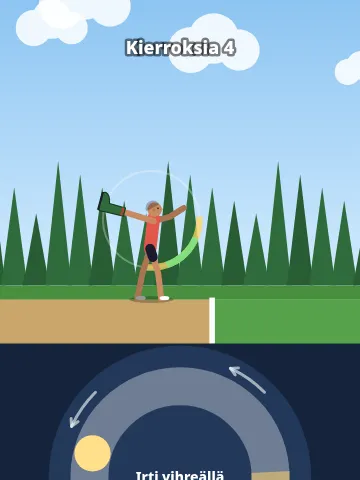
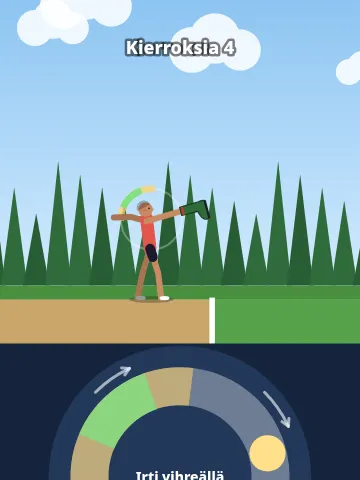
Saappaanheitto v1: swing over the top by default, helper fixes (#503)
- The swing goes clockwise over the top by default, so letting go too early
  sends the boot up and back and too late into the ground, as chosen on #503.
- Flight starts at the hand (arm 0.55 m) and keeps the boot's turn, so the
  boot no longer jumps at release.
- Spectators slide at the forest's rate.
- A lift under half a lap tells the phones watching.
- Tests and diagram follow the new direction.

diff --git a/games/saappaanheitto/v1/index.html b/games/saappaanheitto/v1/index.html
@@ -63,10 +63,10 @@
   <button id="multi">👥 Pelaa kavereiden kanssa</button>
   <button id="asu">👕 Asu</button>
   <p id="stats"></p>
-  <p class="help">Pyöritä saapasta piirtämällä peukalolla ympyröitä kehälle: mitä nopeammin ja mitä useampi
+  <p class="help">Pyöritä saapasta yli olan piirtämällä peukalolla ympyröitä kehälle myötäpäivään: mitä nopeammin ja mitä useampi
     kierros, sitä kovempi vauhti. Nosta peukalo, kun saapas on vihreällä kaarella, niin se lentää parhaaseen
     kulmaan. Yli kymmenen kierrosta väsyttää käden. Kolme heittoa, kahdeksan parasta saa kolme lisää.</p>
-  <p class="help side">Piirrä peukalolla ympyröitä oikean reunan kehälle ja nosta peukalo, kun saapas on
+  <p class="help side">Piirrä peukalolla ympyröitä myötäpäivään oikean reunan kehälle ja nosta peukalo, kun saapas on
     vihreällä kaarella. Kolme heittoa, kahdeksan parasta saa kolme lisää.</p>
 </div>
 <script src="../../../rooms.js" data-game="saappaanheitto" data-min="2" data-max="8"></script>
@@ -91,10 +91,13 @@ const FOES = ['Kumi-Kalle', 'Saapas-Sanna', 'Varsi-Ville', 'Lätäkkö-Leena', '
 // The boot's speed comes from how fast the thumb goes round (the last WIN_S seconds of turning),
 // times how far the swing has built up (and the boot follows it with some weight): half on the first lap, full after BUILD laps. Past TIRE
 // laps the arm tires and the speed drops; at SLIP laps the boot slips from the hand (a foul).
-// Lifting the thumb lets go: the boot flies along the circle's tangent. Going round forward
-// (anticlockwise on the screen) that is best low in front, going round backward high behind.
+// Lifting the thumb lets go: the boot flies along the circle's tangent. The swing is over the top
+// (clockwise on the screen, dir -1), as Eero chose on #503: let go early, while the boot still
+// rises behind, and it flies up and back; late, as it comes down in front, and it goes into the
+// ground. The best moment is high behind the shoulder. Going round the other way (underarm, dir 1)
+// works too, mirrored.
 const TAU = Math.PI * 2, DEG = Math.PI / 180;
-const SH_X = -1.1, SH_Y = 1.45, ARM = 0.87;   // the shoulder, and the boot's middle from it
+const SH_X = -1.1, SH_Y = 1.45, ARM = 0.55;   // the shoulder, and the hand holding the boot from it
 const KW = 2.0, VMAX = 28, WIN_S = 0.25;      // m/s of boot per rad/s of thumb, its top speed
 const BUILD = 2.5, TIRE = 10, SLIP = 14;      // laps
 const MIN_TURN = Math.PI;                     // less than half a lap before the lift: no throw
@@ -103,7 +106,7 @@ const DRAG = 0.006, G = 9.81, SUB = 1 / 240;
 const LAND_T = 2.4, BOARD_T = 3.5, TURN_MAX = 45;   // seconds
 
 const wrapR = r => ((r + Math.PI) % TAU + TAU) % TAU - Math.PI;
-// The boot's middle when its arm points at angle a (radians, 0 forward, anticlockwise up).
+// The hand (and the boot's top) when its arm points at angle a (radians, 0 forward, anticlockwise up).
 const bootAt = a => [SH_X + Math.cos(a) * ARM, SH_Y + Math.sin(a) * ARM];
 // How much of the thumb's speed reaches the boot after this many laps.
 function build(laps) {
@@ -121,7 +124,7 @@ function launchDeg(a, dir) {
 function arc(dir, half) { const m = (BEST - dir * 90) * DEG; return [m - half * DEG, m + half * DEG]; }
 function boot(a, v, dir) {
   const [x0, y0] = bootAt(a), e = launchDeg(a, dir) * DEG;
-  return { x: x0, y: y0, vx: v * Math.cos(e), vy: v * Math.sin(e), t: 0, acc: 0, stuck: false, dir, trail: [] };
+  return { x: x0, y: y0, vx: v * Math.cos(e), vy: v * Math.sin(e), t: 0, acc: 0, stuck: false, dir, a0: a, trail: [] };
 }
 function flySub(j) {
   const v = Math.hypot(j.vx, j.vy);
@@ -218,7 +221,7 @@ function cpuMark(t) {
 }
 // A new turn: this phone draws it, and runs it when it is its own.
 function newTurn(t, mine, seq) {
-  th = { seq, id: t.id, mine, phase: 'wait', t: 0, a: -Math.PI / 2 - 0.15, dir: 1, turn: 0, v: 0,
+  th = { seq, id: t.id, mine, phase: 'wait', t: 0, a: -Math.PI / 2 - 0.15, dir: -1, turn: 0, v: 0,
     moves: [], boot: null, mark: null, why: '', sendT: 0, idle: 0, lap: 0 };
   blend = 0; spinPtr = null;
 }
@@ -323,8 +326,10 @@ function spinEnd(e) {
   spinMove(e.clientX, e.clientY, clock);
   if (Math.abs(th.turn) < MIN_TURN) {
     // A thumb lifted before half a lap: a slip, the boot hangs again.
-    th.phase = 'ready'; th.a = -Math.PI / 2 - 0.15; th.v = 0; th.turn = 0;
+    th.phase = 'ready'; th.a = -Math.PI / 2 - 0.15; th.v = 0; th.turn = 0; th.dir = -1;
     say('Pyöritä ympyrää!', '#ffd166');
+    // The phones watching put the boot back to hanging too.
+    if (isNet()) K.send({ t: 'p', a: [r3(th.a), 0, 'ready', th.dir, 0] });
     return;
   }
   letGo();
@@ -445,7 +450,7 @@ function drawScene(dt) {
     x.beginPath(); x.moveTo(tx, groundY - 14); x.lineTo(tx + gap * 0.6, groundY - 14 - th2); x.lineTo(tx + gap * 1.2, groundY - 14); x.fill();
   }
   // The friends watching stand in front of the forest, drawn before the thrower so they never cover it.
-  K.drawFans(x, { left: 12, right: SW - 12, bottom: groundY - 8, h: 40, walk: true, scroll: (camX - REST()) * 9 });
+  K.drawFans(x, { left: 12, right: SW - 12, bottom: groundY - 8, h: 40, walk: true, scroll: (camX - REST()) * 6 });
   x.fillStyle = '#4a8f3f'; x.fillRect(0, groundY - 14, W, 14);
   // The field: mown stripes every 5 m past the line, a sandy throwing area behind it.
   x.fillStyle = '#5aa64e'; x.fillRect(0, groundY, W, sceneB - groundY);
@@ -485,7 +490,8 @@ function drawScene(dt) {
       });
       const j = th.boot;
       // It tumbles end over end in the air, and lies on its side where it came down.
-      const rot = j.stuck ? -Math.PI / 2 : -Math.PI / 2 - j.dir * j.t * 9;
+      // It leaves the hand turned as it was held, and goes on turning the way it was swung.
+      const rot = j.stuck ? -Math.PI / 2 : -(j.a0 + j.dir * j.t * 9);
       // Drawn bigger than it is once the camera is out, so it can be followed in the air.
       const bk = Math.max(s, 46);
       drawBoot(sx(j.x) - (j.stuck ? 0.24 * bk : 0), sy(j.y) - (j.stuck ? 0.12 * bk : 0), rot, bk);
@@ -591,7 +597,7 @@ function drawAthlete(a, px, base, s, col, name, o = null, g = x) {
   g.strokeStyle = o.bottom; g.lineWidth = lw * 1.6;
   g.beginPath(); g.moveTo(hipX, hipY); g.lineTo(...pt(hipX, hipY, legs[0][0], 0.16 * s)); g.stroke();
   // The throwing arm, straight from the shoulder to the boot's shaft.
-  const shX = px, shY = base - SH_Y * s, hand = [shX + Math.cos(arm) * 0.5 * s, shY - Math.sin(arm) * 0.5 * s];
+  const shX = px, shY = base - SH_Y * s, hand = [shX + Math.cos(arm) * ARM * s, shY - Math.sin(arm) * ARM * s];
   g.strokeStyle = o.skin; g.lineWidth = lw;
   g.beginPath(); g.moveTo(neckX, neckY + 0.05 * s); g.lineTo(hand[0], hand[1]); g.stroke();
   if (!a.boot && !a.bare && !(a.phase === 'land' && a.dropped)) drawBoot(hand[0], hand[1], -arm, s, g);
@@ -709,7 +715,7 @@ function drawControls() {
     x.lineWidth = r * 0.42;
     x.strokeStyle = 'rgba(255,209,102,.55)'; x.beginPath(); x.arc(cx, cy, r, -ok[1], -ok[0]); x.stroke();
     x.strokeStyle = 'rgba(126,224,129,.8)'; x.beginPath(); x.arc(cx, cy, r, -good[1], -good[0]); x.stroke();
-    // Arrows round the ring, the way the boot goes (forward before the first lap).
+    // Arrows round the ring, the way the boot goes (over the top, clockwise, before the first lap).
     x.strokeStyle = 'rgba(255,255,255,.6)'; x.lineWidth = 3; x.lineCap = 'round';
     for (let k = 0; k < 4; k++) {
       const m = k * Math.PI / 2 + Math.PI / 4, q = m + dir * 0.35;

diff --git a/tests/test_saappaanheitto_v1.py b/tests/test_saappaanheitto_v1.py
@@ -42,13 +42,15 @@ def my_turn(page):
 def test_the_flight_rewards_speed_and_the_right_moment(real, context):
     page, errors = open_game(real, context)
     r = page.evaluate("""() => {
-      const best = (BEST - 90) * DEG;               // going round forward, let go low in front
+      // Over the top (clockwise, dir -1, Eero's choice on #503): the angle falls as the boot goes
+      // round, so an early release is at a larger angle and a late one at a smaller.
+      const best = (BEST + 90) * DEG;               // high behind the shoulder
       return {
-        top: flight(best, VMAX, 1),
-        slow: flight(best, 12, 1),
-        early: flight(best + 100 * DEG, VMAX, 1),   // still on the way up: flies up and back
-        late: flight(best - 110 * DEG, VMAX, 1),    // past the bottom: low, into the ground
-        back: flight((BEST + 90) * DEG, VMAX, -1),  // going round backward, let go high behind
+        top: flight(best, VMAX, -1),
+        slow: flight(best, 12, -1),
+        early: flight(best + 100 * DEG, VMAX, -1),  // still rising behind: flies up and back
+        late: flight(best - 110 * DEG, VMAX, -1),   // coming down in front: low, into the ground
+        under: flight((BEST - 90) * DEG, VMAX, 1),  // the underarm swing, mirrored
       };
     }""")
     assert 55 < r["top"]["mark"] < 62, r["top"]
@@ -56,10 +58,10 @@ def test_the_flight_rewards_speed_and_the_right_moment(real, context):
     assert 0 < r["slow"]["mark"] < 20, r["slow"]
     assert r["early"]["mark"] == -1 and r["early"]["why"]
     assert r["late"]["mark"] < 0.3 * r["top"]["mark"], r["late"]
-    # The overarm swing reaches as far, from the same best angle.
-    assert abs(r["back"]["mark"] - r["top"]["mark"]) < 1.5
+    # The underarm swing reaches about as far, from the same best angle.
+    assert abs(r["under"]["mark"] - r["top"]["mark"]) < 2
     # The arm halves an error: 30 degrees off the tangent costs a little, not the throw.
-    off = page.evaluate("flight((BEST - 90 - 30) * DEG, VMAX, 1)")
+    off = page.evaluate("flight((BEST + 90 + 30) * DEG, VMAX, -1)")
     assert 0.8 * r["top"]["mark"] < off["mark"] < r["top"]["mark"]
     assert errors == []
 
@@ -76,20 +78,20 @@ def test_the_computer_never_throws_past_58_m(real, context):
 
 
 def circles(page, laps, lap_ms, stop_deg=None):
-    """Draws circles anticlockwise on the spin pad with the mouse, from the bottom, and lifts at stop_deg."""
+    """Draws circles clockwise (over the top) on the spin pad with the mouse, from the bottom, and lifts at stop_deg."""
     cx, cy, r = page.evaluate("[ring.cx, ring.cy, ring.r]")
     per = 24
     a = -math.pi / 2
     page.mouse.move(cx + r * math.cos(a), cy - r * math.sin(a))
     page.mouse.down()
     for _ in range(int(laps * per)):
-        a += 2 * math.pi / per
+        a -= 2 * math.pi / per
         page.mouse.move(cx + r * math.cos(a), cy - r * math.sin(a))
         page.wait_for_timeout(lap_ms / per)
     if stop_deg is not None:
         target = stop_deg * math.pi / 180
         while abs(((target - a + math.pi) % (2 * math.pi)) - math.pi) > 0.15:
-            a += 2 * math.pi / per
+            a -= 2 * math.pi / per
             page.mouse.move(cx + r * math.cos(a), cy - r * math.sin(a))
             page.wait_for_timeout(lap_ms / per)
     page.mouse.up()
@@ -98,10 +100,10 @@ def circles(page, laps, lap_ms, stop_deg=None):
 def test_a_thumb_drawing_circles_throws_the_boot(real, context):
     page, errors = open_game(real, context)
     my_turn(page)
-    circles(page, 4, 300, stop_deg=-47)
+    circles(page, 4, 300, stop_deg=133)
     page.wait_for_function("th.phase === 'land'", timeout=10000)
     th = page.evaluate("({ mark: th.mark, ang: th.ang, v: th.v, dir: th.dir })")
-    assert th["dir"] == 1
+    assert th["dir"] == -1
     assert th["v"] > 5
     assert abs(th["ang"] - 43) < 8, th
     assert th["mark"] > 5, th
@@ -153,7 +155,7 @@ def test_on_its_side_the_pad_is_under_the_right_thumb(real, context):
     assert cx > 740 * 0.66
     assert cx + 1.45 * r <= 740 and cx - 1.45 * r >= page.evaluate("W - side")
     assert cy - 1.45 * r >= 0 and cy + 1.45 * r <= 360
-    circles(page, 3, 300, stop_deg=-47)
+    circles(page, 3, 300, stop_deg=133)
     page.wait_for_function("th.phase === 'land'", timeout=10000)
     assert page.evaluate("th.mark") > 0
     # Turning back upright keeps the meet going.

diff --git a/docs/diagrams/saappaanheitto.md b/docs/diagrams/saappaanheitto.md
@@ -63,13 +63,13 @@ flowchart TD
 - **Tulostaulu: kierros, sijat, viimeisin ja paras**: the library's `K.drawBoard()`, shown for 3.5 s (`BOARD_T`) before each of the player's turns; alone a tap skips it.
 - **Kenen vuoro?**: the library's turn order; `newTurn()` makes the turn each phone draws (`th`), its own (`mine`) or someone else's.
 - **Tietokone heittää heti, enintään 58 m**: `cpuMark()`: the skill plus a scatter of 3 m, a foul one time in eight (0.12), at least 8 m; a throw over `CPU_MAX` (58 m, about what a player reaches at the top speed and the best angle) is drawn again, as in Moukarinheitto (#404).
-- **Odotetaan omalla vuorolla, Ohita vuoro = X, tai hän palaa**: the library calls `R.turns()` with the competitor on turn; the host's "Ohita vuoro" records -1 (X). The friends not on turn stand in front of the forest (`K.drawFans(x, {..., walk: true, scroll})` early in `drawScene()`, before the thrower) and a tap on the scene walks your own figure there (`K.tapFans()` first in `pointerdown`).
+- **Odotetaan omalla vuorolla, Ohita vuoro = X, tai hän palaa**: the library calls `R.turns()` with the competitor on turn; the host's "Ohita vuoro" records -1 (X). The friends not on turn stand in front of the forest (`K.drawFans(x, {..., walk: true, scroll})`, `scroll` at the forest's rate, 6 px a metre, early in `drawScene()`, before the thrower) and a tap on the scene walks your own figure there (`K.tapFans()` first in `pointerdown`).
 - **Saapas roikkuu: peukalo kehälle**: phase `ready`. The spin pad is under the scene upright and a column at the right edge sideways (`resize()`: `ring`, `side`); `padOn()` lights it only on the player's own turn. `valinta` plays when the turn is ready.
-- **Pyöritä: saapas seuraa peukaloa, vauhti kasvaa**: phase `spin`, `spinStart()` and `spinMove()`: the boot's arm angle is the thumb's angle round the ring's middle (screen up is up); points nearer the middle than 0.3 of the ring, and jumps over a quarter turn, are left out. Every coalesced pointer event counts (`getCoalescedEvents()`). The thumb's turning speed is what it went round in the last 0.25 s (`thumbSpeed()`, `WIN_S`); the boot's speed follows `min(VMAX 28 m/s, 2.0 × rad/s) × build(laps)` with some weight (about 0.3 s up, 0.9 s down), and `build()` is half on the first lap, full after 2.5 laps, and falls past 10 laps (`TIRE`, "Käsi väsyy!"). Going round anticlockwise is forward (underarm), clockwise backward (overarm). Each lap whooshes (`suhahdus`, pitched by speed). The scene and the pad show a green arc (the best angles, ±24° of tangent) and a yellow one (±50°) for the way the boot goes, and the HUD the speed and the laps.
+- **Pyöritä: saapas seuraa peukaloa, vauhti kasvaa**: phase `spin`, `spinStart()` and `spinMove()`: the boot's arm angle is the thumb's angle round the ring's middle (screen up is up); points nearer the middle than 0.3 of the ring, and jumps over a quarter turn, are left out. Every coalesced pointer event counts (`getCoalescedEvents()`). The thumb's turning speed is what it went round in the last 0.25 s (`thumbSpeed()`, `WIN_S`); the boot's speed follows `min(VMAX 28 m/s, 2.0 × rad/s) × build(laps)` with some weight (about 0.3 s up, 0.9 s down), and `build()` is half on the first lap, full after 2.5 laps, and falls past 10 laps (`TIRE`, "Käsi väsyy!"). The swing is over the top, clockwise on the screen (`dir` -1, the pad's arrows before the first lap), so the best moment is high behind the shoulder; going round anticlockwise (underarm) works too, mirrored. Each lap whooshes (`suhahdus`, pitched by speed). The scene and the pad show a green arc (the best angles, ±24° of tangent) and a yellow one (±50°) for the way the boot goes, and the HUD the speed and the laps.
 - **Yli 14 kierrosta tai 45 s ilman liikettä huoneessa?**: `step()`: at 14 laps (`SLIP`) the boot slips, "Käsi väsyi: saapas lipsahti"; in a room 45 s (`TURN_MAX`) with no thumb movement is "Aika loppui". Both are `outcome(-1, why)`, sent as `rel` with `why`.
 - **Peukalo nousee**: `spinEnd()` on `pointerup`/`pointercancel` of the spinning pointer: `catchUp(e)` first runs the game on to the lift's own moment (#404, `reilu-ajoitus.md`).
-- **Alle puoli kierrosta?**: `spinEnd()`: a lift under half a lap (`MIN_TURN`) is a slip of the thumb, "Pyöritä ympyrää!", and the boot hangs again.
-- **Saapas lentää kehän tangentin suuntaan**: `letGo()`, `throwNow()` and `boot()`: from the boot's spot on the circle (shoulder at −1.1 m, 1.45 m high, arm 0.87 m), at its speed, along the tangent; the thrower's arm halves how far that is from the best 43° (`launchDeg()`, `HELP`). The flight has gravity and air drag (`flySub()`, 1/240 s steps): about 59 m at 28 m/s and 43°. Too early sends it up and back, too late low into the ground. Angle and speed are rounded before they are sent (`rel`), so every phone flies the same boot.
+- **Alle puoli kierrosta?**: `spinEnd()`: a lift under half a lap (`MIN_TURN`) is a slip of the thumb, "Pyöritä ympyrää!", and the boot hangs again; in a room a `p` tells the phones watching.
+- **Saapas lentää kehän tangentin suuntaan**: `letGo()`, `throwNow()` and `boot()`: from the boot's spot on the circle (shoulder at −1.1 m, 1.45 m high, the hand 0.55 m from it), at its speed, along the tangent; the thrower's arm halves how far that is from the best 43° (`launchDeg()`, `HELP`). The flight has gravity and air drag (`flySub()`, 1/240 s steps): about 59 m at 28 m/s and 43°. Over the top, too early (still rising behind) sends it up and back, too late (coming down in front) low into the ground. In flight it keeps the turn it was held with and tumbles on the way it was swung. Angle and speed are rounded before they are sent (`rel`), so every phone flies the same boot.
 - **Putosi viivan taakse?**: `flight()`: a boot landing at or behind the line (x ≤ 0) is a foul, "Saapas ei ylittänyt viivaa". No sector: the side view has none (assumed, #503).
 - **Kaverin pyöritys näkyy, sama saapas lentää**: the thrower's phone sends its boot angle, speed, phase, direction and laps twelve times a second (`p`) and the release (`rel`); `watchFrom()` draws it, and `throwNow()` flies the same boot to the same mark.
 - **Tulos metreinä viivasta, ennätys talteen**: `landed()` (the `tomahdys` thud, the quiet `onnistui` at 0.3 for the player's own throw) and `K.record()`; the mark goes to the meet with `K.report()` after 2.4 s (`LAND_T`).
